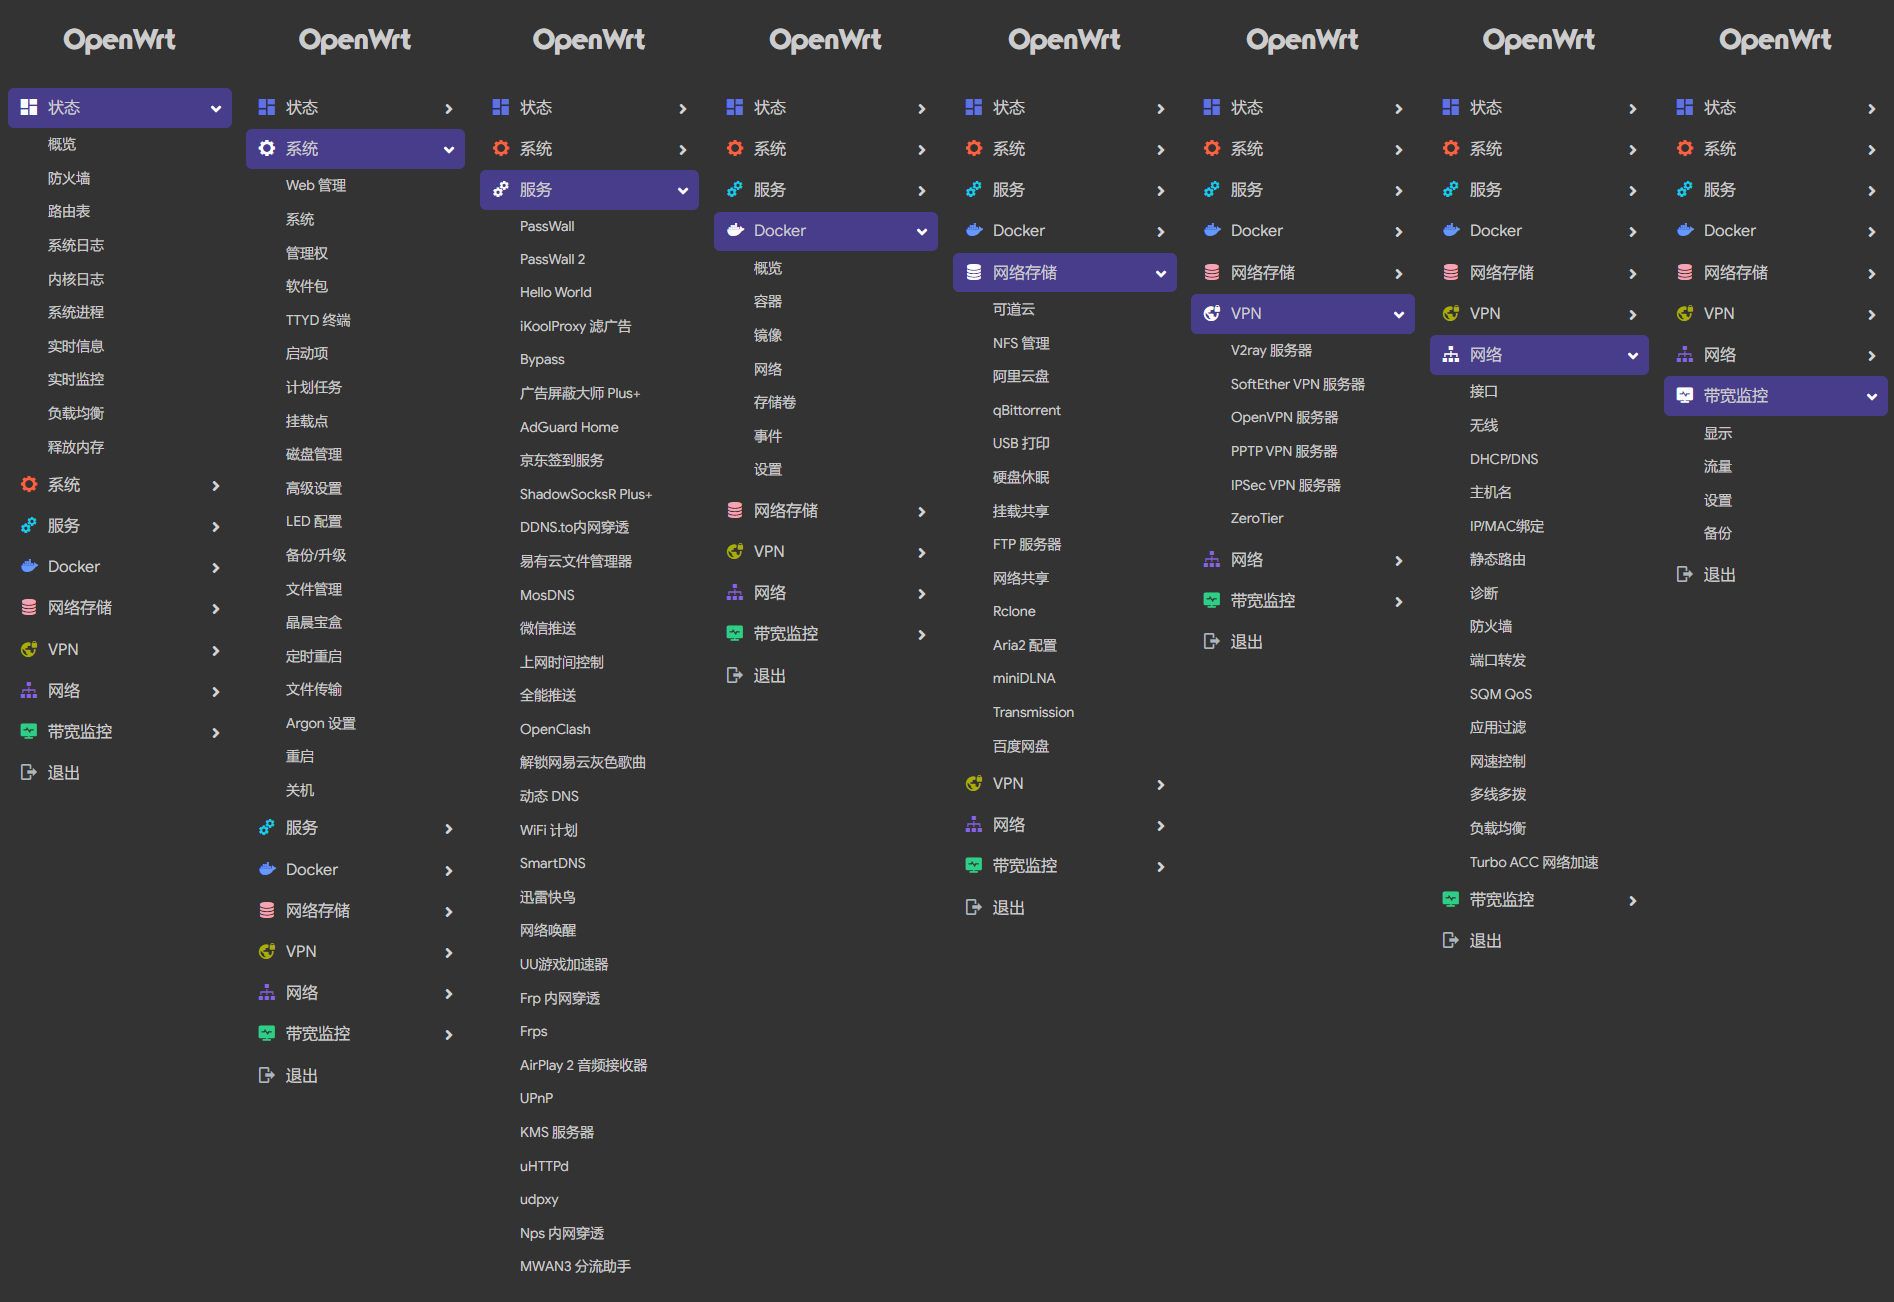
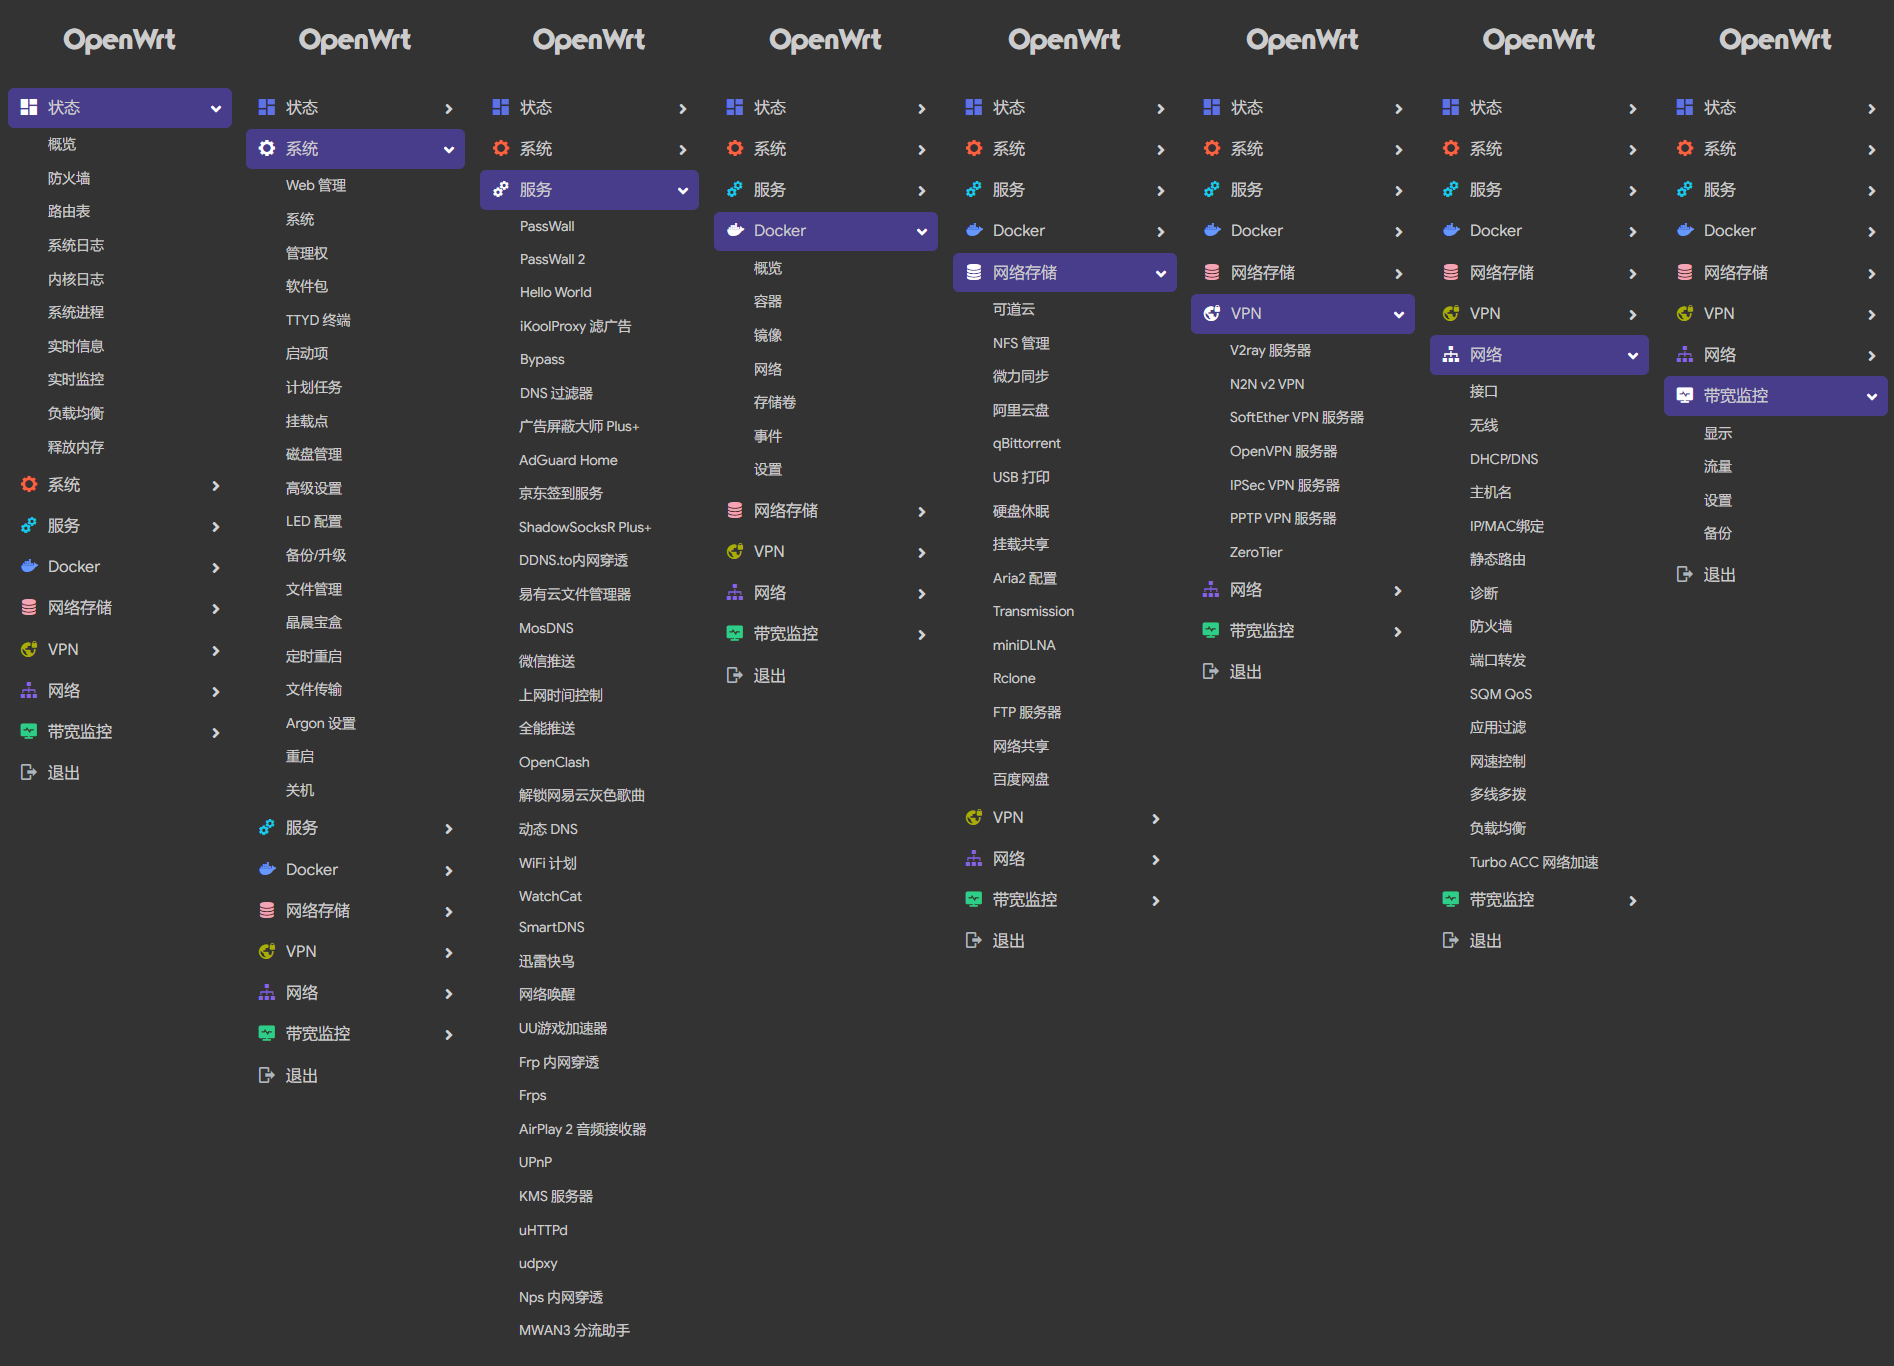
action:Fri Jun 24 04:03:34 CST 2022

Changed region(s): [[0.0, 0.0, 0.9968, 0.9831], [0.4984, 0.5837, 0.5607, 0.7066]]

diff --git a/backup/haiibo-OpenWrt/README.md b/backup/haiibo-OpenWrt/README.md
@@ -99,6 +99,7 @@
 　├── Hello World<br/>
 　├── iKoolProxy 滤广告<br/>
 　├── Bypass<br/>
+　├── DNS 过滤器<br/>
 　├── 广告屏蔽大师 Plus+<br/>
 　├── AdGuard Home<br/>
 　├── 京东签到服务<br/>
@@ -112,7 +113,7 @@
 　├── OpenClash<br/>
 　├── 解锁网易云灰色歌曲<br/>
 　├── 动态 DNS<br/>
-　├── WiFi 计划<br/>
+　├── WatchCat<br/>
 　├── SmartDNS<br/>
 　├── 迅雷快鸟<br/>
 　├── 网络唤醒<br/>
@@ -141,6 +142,7 @@
 <summary><b>├── 网络存储</b></summary>
 　├── 可道云<br/>
 　├── NFS 管理<br/>
+　├── 微力同步<br/>
 　├── 阿里云盘 WebDAV<br/>
 　├── qBittorrent<br/>
 　├── USB 打印服务器<br/>
@@ -156,6 +158,7 @@
 </details>
 <details>
 <summary><b>├── VPN</b></summary>
+　├── N2N v2 VPN<br/>
 　├── V2ray 服务器<br/>
 　├── SoftEther VPN 服务器<br/>
 　├── OpenVPN 服务器<br/>
@@ -166,7 +169,6 @@
 <details>
 <summary><b>├── 网络</b></summary>
 　├── 接口<br/>
-　├── 无线<br/>
 　├── DHCP/DNS<br/>
 　├── 主机名<br/>
 　├── IP/MAC 绑定<br/>
